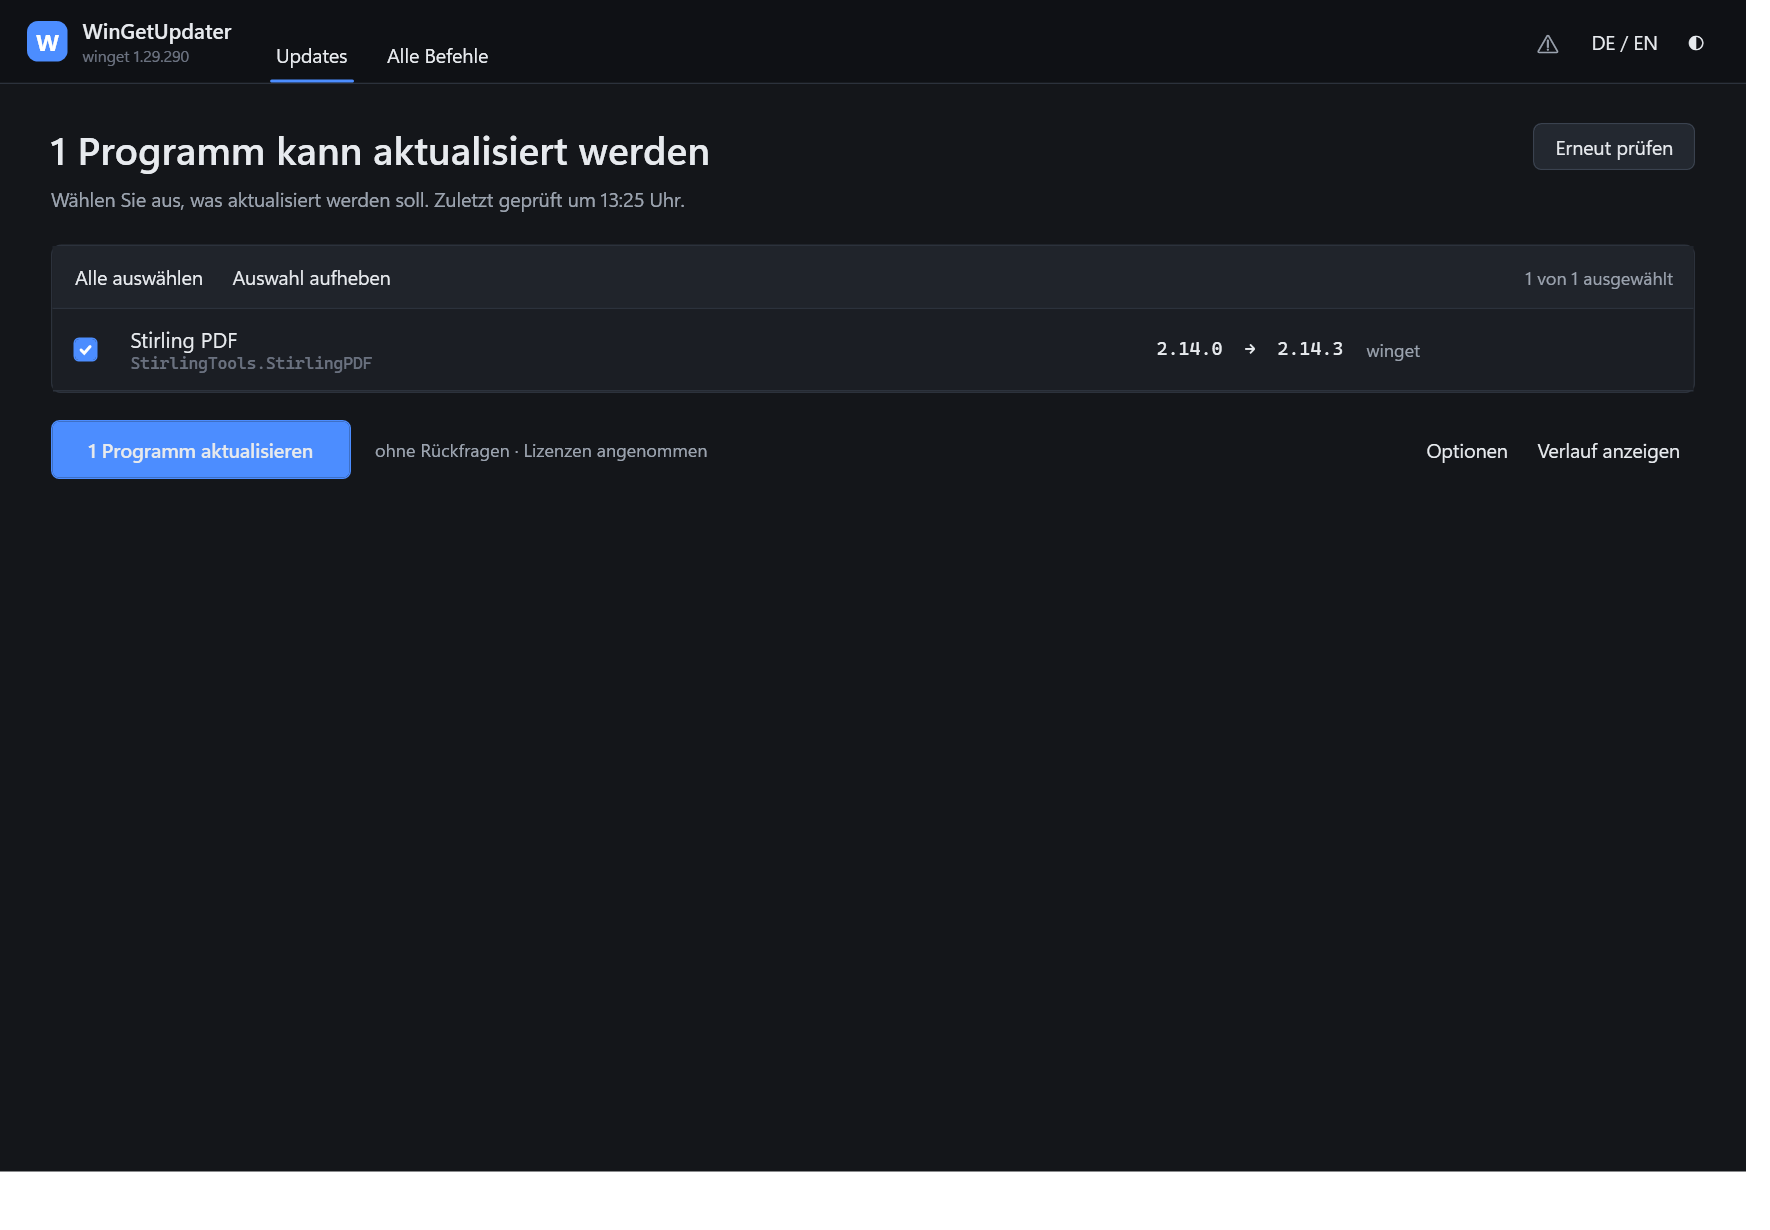
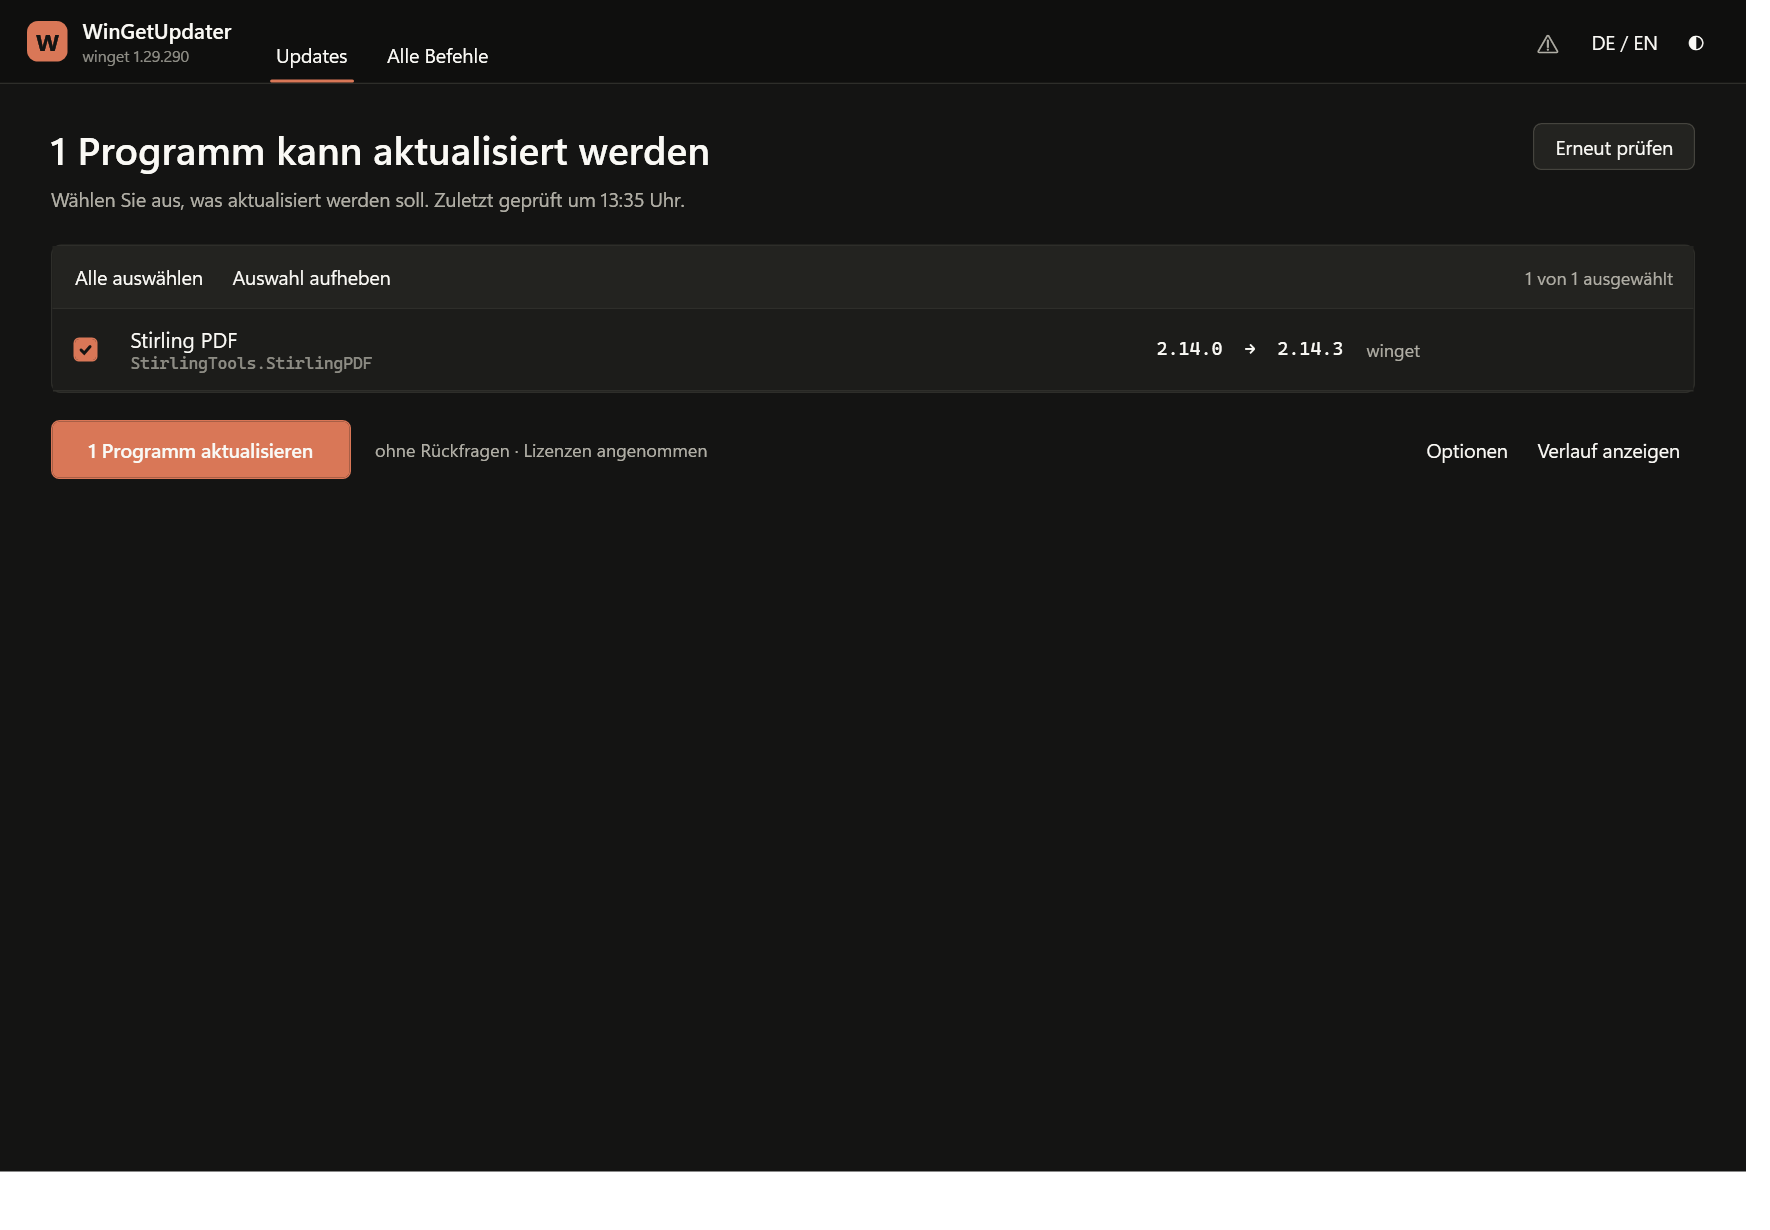
Farbwelt nach den Anthropic-Markenrichtlinien
Dark #141413, Cream #faf9f5, Mid Gray #b0aea5, Light Gray #e8e6dc, Akzent
Orange #d97757. Beide Designs teilen sich dieselben 26 Schluessel; nur die
Werte wechseln.

Drei Punkte, die aus der Palette folgen und nachgemessen sind:

- Auf Orange steht dunkler Text. #141413 erreicht 5,9:1, Weiss nur 3,1:1 und
  faellt damit unter die Lesbarkeitsschwelle - Fg.OnAccent ist deshalb in beiden
  Designs dunkel.
- Orange ist als Aktionsfarbe belegt und kann nicht zugleich Fehler bedeuten.
  Fehler bekommen ein eigenes Rot, Warnungen ein Gold. Da Rot und Orange das
  klassische Verwechslungspaar bei Farbfehlsichtigkeit sind, traegt jeder Zustand
  zusaetzlich ein eigenes Zeichen und einen Text.
- Jede verwendete Paarung erreicht mindestens 4,5:1. Fg.Muted und das Fehlerrot
  lagen zunaechst darunter und wurden angehoben.

Die Markenschriften Poppins und Lora bleiben aussen vor: sie sind nicht
installiert, und WPF laedt keine Webschriften nach - die Oberflaeche wuerde still
auf Arial und Georgia zurueckfallen. Es bleibt bei Segoe UI.

diff --git a/src/WinGetUpdater/Resources/Themes/Dark.xaml b/src/WinGetUpdater/Resources/Themes/Dark.xaml
@@ -2,37 +2,53 @@
                     xmlns:x="http://schemas.microsoft.com/winfx/2006/xaml"
                     xmlns:sys="clr-namespace:System;assembly=System.Runtime">
 
+  <!--
+    Farbwelt nach den Anthropic-Markenrichtlinien.
+
+    Grundtoene: Dark #141413, Light #faf9f5, Mid Gray #b0aea5, Light Gray #e8e6dc.
+    Akzente:    Orange #d97757 (primaer), Blau #6a9bcc, Gruen #788c5d.
+
+    Zwei Festlegungen, die sich aus der Palette ergeben:
+
+    - Auf Orange steht dunkler Text, nicht weisser. #141413 auf #d97757 hat ein
+      Kontrastverhaeltnis von 5,9:1, Weiss nur 3,1:1 und faellt damit unter die
+      Lesbarkeitsschwelle.
+    - Orange ist als Aktionsfarbe belegt, deshalb kann es nicht zugleich Fehler
+      anzeigen. Fehler bekommen ein deutlich roteres Rot, Warnungen ein Gold.
+      Zusaetzlich unterscheiden sich beide durch Symbol und Text, nie nur durch Farbe.
+  -->
+
   <sys:String x:Key="Theme.Name">Dark</sys:String>
 
-  <SolidColorBrush x:Key="Bg.Window"    Color="#14161A" />
-  <SolidColorBrush x:Key="Bg.Sidebar"   Color="#0F1115" />
-  <SolidColorBrush x:Key="Bg.Card"      Color="#1B1E24" />
-  <SolidColorBrush x:Key="Bg.CardAlt"   Color="#20242B" />
-  <SolidColorBrush x:Key="Bg.Input"     Color="#232830" />
-  <SolidColorBrush x:Key="Bg.Console"   Color="#0B0D10" />
-  <SolidColorBrush x:Key="Bg.Hover"     Color="#262B34" />
-  <SolidColorBrush x:Key="Bg.Selected"  Color="#2A3444" />
+  <SolidColorBrush x:Key="Bg.Window"    Color="#141413" />
+  <SolidColorBrush x:Key="Bg.Sidebar"   Color="#0F0F0E" />
+  <SolidColorBrush x:Key="Bg.Card"      Color="#1C1C1A" />
+  <SolidColorBrush x:Key="Bg.CardAlt"   Color="#232320" />
+  <SolidColorBrush x:Key="Bg.Input"     Color="#232320" />
+  <SolidColorBrush x:Key="Bg.Console"   Color="#0B0B0A" />
+  <SolidColorBrush x:Key="Bg.Hover"     Color="#2A2A26" />
+  <SolidColorBrush x:Key="Bg.Selected"  Color="#3A2A22" />
 
-  <SolidColorBrush x:Key="Border.Default" Color="#2C323C" />
-  <SolidColorBrush x:Key="Border.Strong"  Color="#3A424F" />
+  <SolidColorBrush x:Key="Border.Default" Color="#2E2E2A" />
+  <SolidColorBrush x:Key="Border.Strong"  Color="#45443E" />
 
-  <SolidColorBrush x:Key="Fg.Primary"   Color="#E7EAEE" />
-  <SolidColorBrush x:Key="Fg.Secondary" Color="#9BA3AF" />
-  <SolidColorBrush x:Key="Fg.Muted"     Color="#6B7280" />
-  <SolidColorBrush x:Key="Fg.OnAccent"  Color="#FFFFFF" />
-  <SolidColorBrush x:Key="Fg.Console"   Color="#D6DBE1" />
+  <SolidColorBrush x:Key="Fg.Primary"   Color="#FAF9F5" />
+  <SolidColorBrush x:Key="Fg.Secondary" Color="#B0AEA5" />
+  <SolidColorBrush x:Key="Fg.Muted"     Color="#8E8D85" />
+  <SolidColorBrush x:Key="Fg.OnAccent"  Color="#141413" />
+  <SolidColorBrush x:Key="Fg.Console"   Color="#E8E6DC" />
 
-  <SolidColorBrush x:Key="Accent"        Color="#4C8DFF" />
-  <SolidColorBrush x:Key="Accent.Hover"  Color="#6BA0FF" />
-  <SolidColorBrush x:Key="Accent.Press"  Color="#3B78E0" />
-  <SolidColorBrush x:Key="Accent.Subtle" Color="#1E2A3D" />
+  <SolidColorBrush x:Key="Accent"        Color="#D97757" />
+  <SolidColorBrush x:Key="Accent.Hover"  Color="#E48F71" />
+  <SolidColorBrush x:Key="Accent.Press"  Color="#C05F40" />
+  <SolidColorBrush x:Key="Accent.Subtle" Color="#2E211B" />
 
-  <SolidColorBrush x:Key="State.Ok"    Color="#3FB950" />
-  <SolidColorBrush x:Key="State.Warn"  Color="#D29922" />
-  <SolidColorBrush x:Key="State.Error" Color="#F85149" />
-  <SolidColorBrush x:Key="State.Admin" Color="#E3B341" />
+  <SolidColorBrush x:Key="State.Ok"    Color="#8FA871" />
+  <SolidColorBrush x:Key="State.Warn"  Color="#C9973F" />
+  <SolidColorBrush x:Key="State.Error" Color="#DC6759" />
+  <SolidColorBrush x:Key="State.Admin" Color="#C9973F" />
 
-  <SolidColorBrush x:Key="Ok.Subtle"     Color="#12291A" />
-  <SolidColorBrush x:Key="Danger.Subtle" Color="#2A1618" />
+  <SolidColorBrush x:Key="Ok.Subtle"     Color="#1B2116" />
+  <SolidColorBrush x:Key="Danger.Subtle" Color="#2C1815" />
 
 </ResourceDictionary>

diff --git a/src/WinGetUpdater/Resources/Themes/Light.xaml b/src/WinGetUpdater/Resources/Themes/Light.xaml
@@ -2,37 +2,45 @@
                     xmlns:x="http://schemas.microsoft.com/winfx/2006/xaml"
                     xmlns:sys="clr-namespace:System;assembly=System.Runtime">
 
+  <!--
+    Helle Fassung derselben Markenpalette. Die Schluessel sind deckungsgleich mit
+    Dark.xaml; nur die Werte wechseln. Cream #faf9f5 traegt die Flaeche, #e8e6dc und
+    #b0aea5 die Linien, Orange bleibt die Aktionsfarbe.
+
+    Auf Orange steht auch hier dunkler Text - der Knopf sieht in beiden Designs gleich aus.
+  -->
+
   <sys:String x:Key="Theme.Name">Light</sys:String>
 
-  <SolidColorBrush x:Key="Bg.Window"    Color="#F4F5F7" />
-  <SolidColorBrush x:Key="Bg.Sidebar"   Color="#EAECF0" />
+  <SolidColorBrush x:Key="Bg.Window"    Color="#FAF9F5" />
+  <SolidColorBrush x:Key="Bg.Sidebar"   Color="#F2F0E9" />
   <SolidColorBrush x:Key="Bg.Card"      Color="#FFFFFF" />
-  <SolidColorBrush x:Key="Bg.CardAlt"   Color="#F7F8FA" />
+  <SolidColorBrush x:Key="Bg.CardAlt"   Color="#F7F5EE" />
   <SolidColorBrush x:Key="Bg.Input"     Color="#FFFFFF" />
-  <SolidColorBrush x:Key="Bg.Console"   Color="#FBFBFC" />
-  <SolidColorBrush x:Key="Bg.Hover"     Color="#E8EBEF" />
-  <SolidColorBrush x:Key="Bg.Selected"  Color="#DCE7FA" />
+  <SolidColorBrush x:Key="Bg.Console"   Color="#FDFCF8" />
+  <SolidColorBrush x:Key="Bg.Hover"     Color="#ECEAE0" />
+  <SolidColorBrush x:Key="Bg.Selected"  Color="#F6E4DC" />
 
-  <SolidColorBrush x:Key="Border.Default" Color="#D5D9E0" />
-  <SolidColorBrush x:Key="Border.Strong"  Color="#B6BDC7" />
+  <SolidColorBrush x:Key="Border.Default" Color="#E8E6DC" />
+  <SolidColorBrush x:Key="Border.Strong"  Color="#B0AEA5" />
 
-  <SolidColorBrush x:Key="Fg.Primary"   Color="#1F2328" />
-  <SolidColorBrush x:Key="Fg.Secondary" Color="#57606A" />
-  <SolidColorBrush x:Key="Fg.Muted"     Color="#7A828C" />
-  <SolidColorBrush x:Key="Fg.OnAccent"  Color="#FFFFFF" />
-  <SolidColorBrush x:Key="Fg.Console"   Color="#24292F" />
+  <SolidColorBrush x:Key="Fg.Primary"   Color="#141413" />
+  <SolidColorBrush x:Key="Fg.Secondary" Color="#57564F" />
+  <SolidColorBrush x:Key="Fg.Muted"     Color="#71706A" />
+  <SolidColorBrush x:Key="Fg.OnAccent"  Color="#141413" />
+  <SolidColorBrush x:Key="Fg.Console"   Color="#24231F" />
 
-  <SolidColorBrush x:Key="Accent"        Color="#0B62D6" />
-  <SolidColorBrush x:Key="Accent.Hover"  Color="#2A7BE8" />
-  <SolidColorBrush x:Key="Accent.Press"  Color="#0A55BA" />
-  <SolidColorBrush x:Key="Accent.Subtle" Color="#E6EFFC" />
+  <SolidColorBrush x:Key="Accent"        Color="#D97757" />
+  <SolidColorBrush x:Key="Accent.Hover"  Color="#C86544" />
+  <SolidColorBrush x:Key="Accent.Press"  Color="#B3543A" />
+  <SolidColorBrush x:Key="Accent.Subtle" Color="#F9ECE6" />
 
-  <SolidColorBrush x:Key="State.Ok"    Color="#1A7F37" />
-  <SolidColorBrush x:Key="State.Warn"  Color="#9A6700" />
-  <SolidColorBrush x:Key="State.Error" Color="#CF222E" />
-  <SolidColorBrush x:Key="State.Admin" Color="#9A6700" />
+  <SolidColorBrush x:Key="State.Ok"    Color="#5F7148" />
+  <SolidColorBrush x:Key="State.Warn"  Color="#8F661B" />
+  <SolidColorBrush x:Key="State.Error" Color="#A6392E" />
+  <SolidColorBrush x:Key="State.Admin" Color="#8F661B" />
 
-  <SolidColorBrush x:Key="Ok.Subtle"     Color="#E4F4E8" />
-  <SolidColorBrush x:Key="Danger.Subtle" Color="#FBE9EA" />
+  <SolidColorBrush x:Key="Ok.Subtle"     Color="#EAF0E2" />
+  <SolidColorBrush x:Key="Danger.Subtle" Color="#FAEAE7" />
 
 </ResourceDictionary>

diff --git a/CLAUDE.md b/CLAUDE.md
@@ -172,6 +172,21 @@ requirement made testable.
 
   Fixtures that are *not* verbatim winget output must be built from column widths, never from
   hand-aligned literals — hand alignment silently rots.
+* **The palette follows the Anthropic brand guidelines** (`Dark.xaml` / `Light.xaml`), and three
+  rules fall out of it. Keep them when touching colours:
+  - Both theme files must define the **same 26 keys**. A key defined in only one file leaves that
+    brush unresolved after a theme switch.
+  - **Dark text on orange, never white.** `#141413` on `#D97757` is 5.9:1; white is 3.1:1 and
+    fails. That is why `Fg.OnAccent` is dark in *both* themes.
+  - Orange is the action colour, so it cannot also mean "error". Errors use a separate red and
+    warnings a gold — and every state additionally carries its own glyph (✓ / ✕ / ●) and wording,
+    so colour is never the sole signal. Red and orange are the classic colour-blindness pair;
+    the glyph is what actually carries the meaning.
+  - Every foreground/background pair in use clears 4.5:1. If you change a colour, re-measure
+    rather than eyeball it.
+* Poppins and Lora (the brand's typefaces) are **not** used: they are not installed on this
+  machine, and WPF cannot fetch webfonts, so the app would silently fall back to Arial/Georgia.
+  Segoe UI stays until the fonts are bundled with the app.
 * **`winget.exe` is not reliably on PATH.** `WingetLocator` tries the App Execution Alias, then
   PATH, then globs `Microsoft.DesktopAppInstaller_*_8wekyb3d8bbwe` under WindowsApps. If none
   works the app shows an explanatory page instead of failing.

diff --git a/README.md b/README.md
@@ -176,6 +176,26 @@ alle drei durch echte Ausgaben dieses Rechners aufgedeckt:
 
 Die Testdateien unter `tests\WinGetUpdater.Tests\Fixtures\` sind unveränderte Originalausgaben.
 
+### Die Farbwelt
+
+Die Palette folgt den Anthropic-Markenrichtlinien: Dark `#141413`, Cream `#faf9f5`,
+Mid Gray `#b0aea5`, Light Gray `#e8e6dc`, dazu Orange `#d97757` als Akzent sowie Blau und Grün.
+Drei Festlegungen ergeben sich daraus:
+
+* **Auf Orange steht dunkler Text, nicht weißer.** `#141413` auf `#d97757` erreicht 5,9:1,
+  Weiß nur 3,1:1 und fällt damit unter die Lesbarkeitsschwelle. Deshalb ist `Fg.OnAccent` in
+  beiden Designs dunkel.
+* **Orange ist die Aktionsfarbe und kann nicht zugleich Fehler bedeuten.** Fehler bekommen ein
+  eigenes Rot, Warnungen ein Gold — und jeder Zustand trägt zusätzlich sein eigenes Zeichen
+  (✓ / ✕ / ●) und einen Text. Rot und Orange sind das klassische Verwechslungspaar bei
+  Farbfehlsichtigkeit; die Bedeutung hängt deshalb nie an der Farbe allein.
+* **Jede verwendete Vordergrund-/Hintergrundpaarung erreicht mindestens 4,5:1.** Nachgemessen,
+  nicht geschätzt.
+
+Die Schriften der Marke (Poppins, Lora) sind bewusst *nicht* übernommen: sie sind auf dem
+Zielsystem nicht installiert, und WPF kann keine Webschriften nachladen — die Oberfläche würde
+still auf Arial und Georgia zurückfallen. Es bleibt bei Segoe UI.
+
 ### Die Rechteerhöhung
 
 Ein per `runas` gestarteter Prozess lässt sich nicht umleiten. Der erhöhte Aufruf schreibt daher
